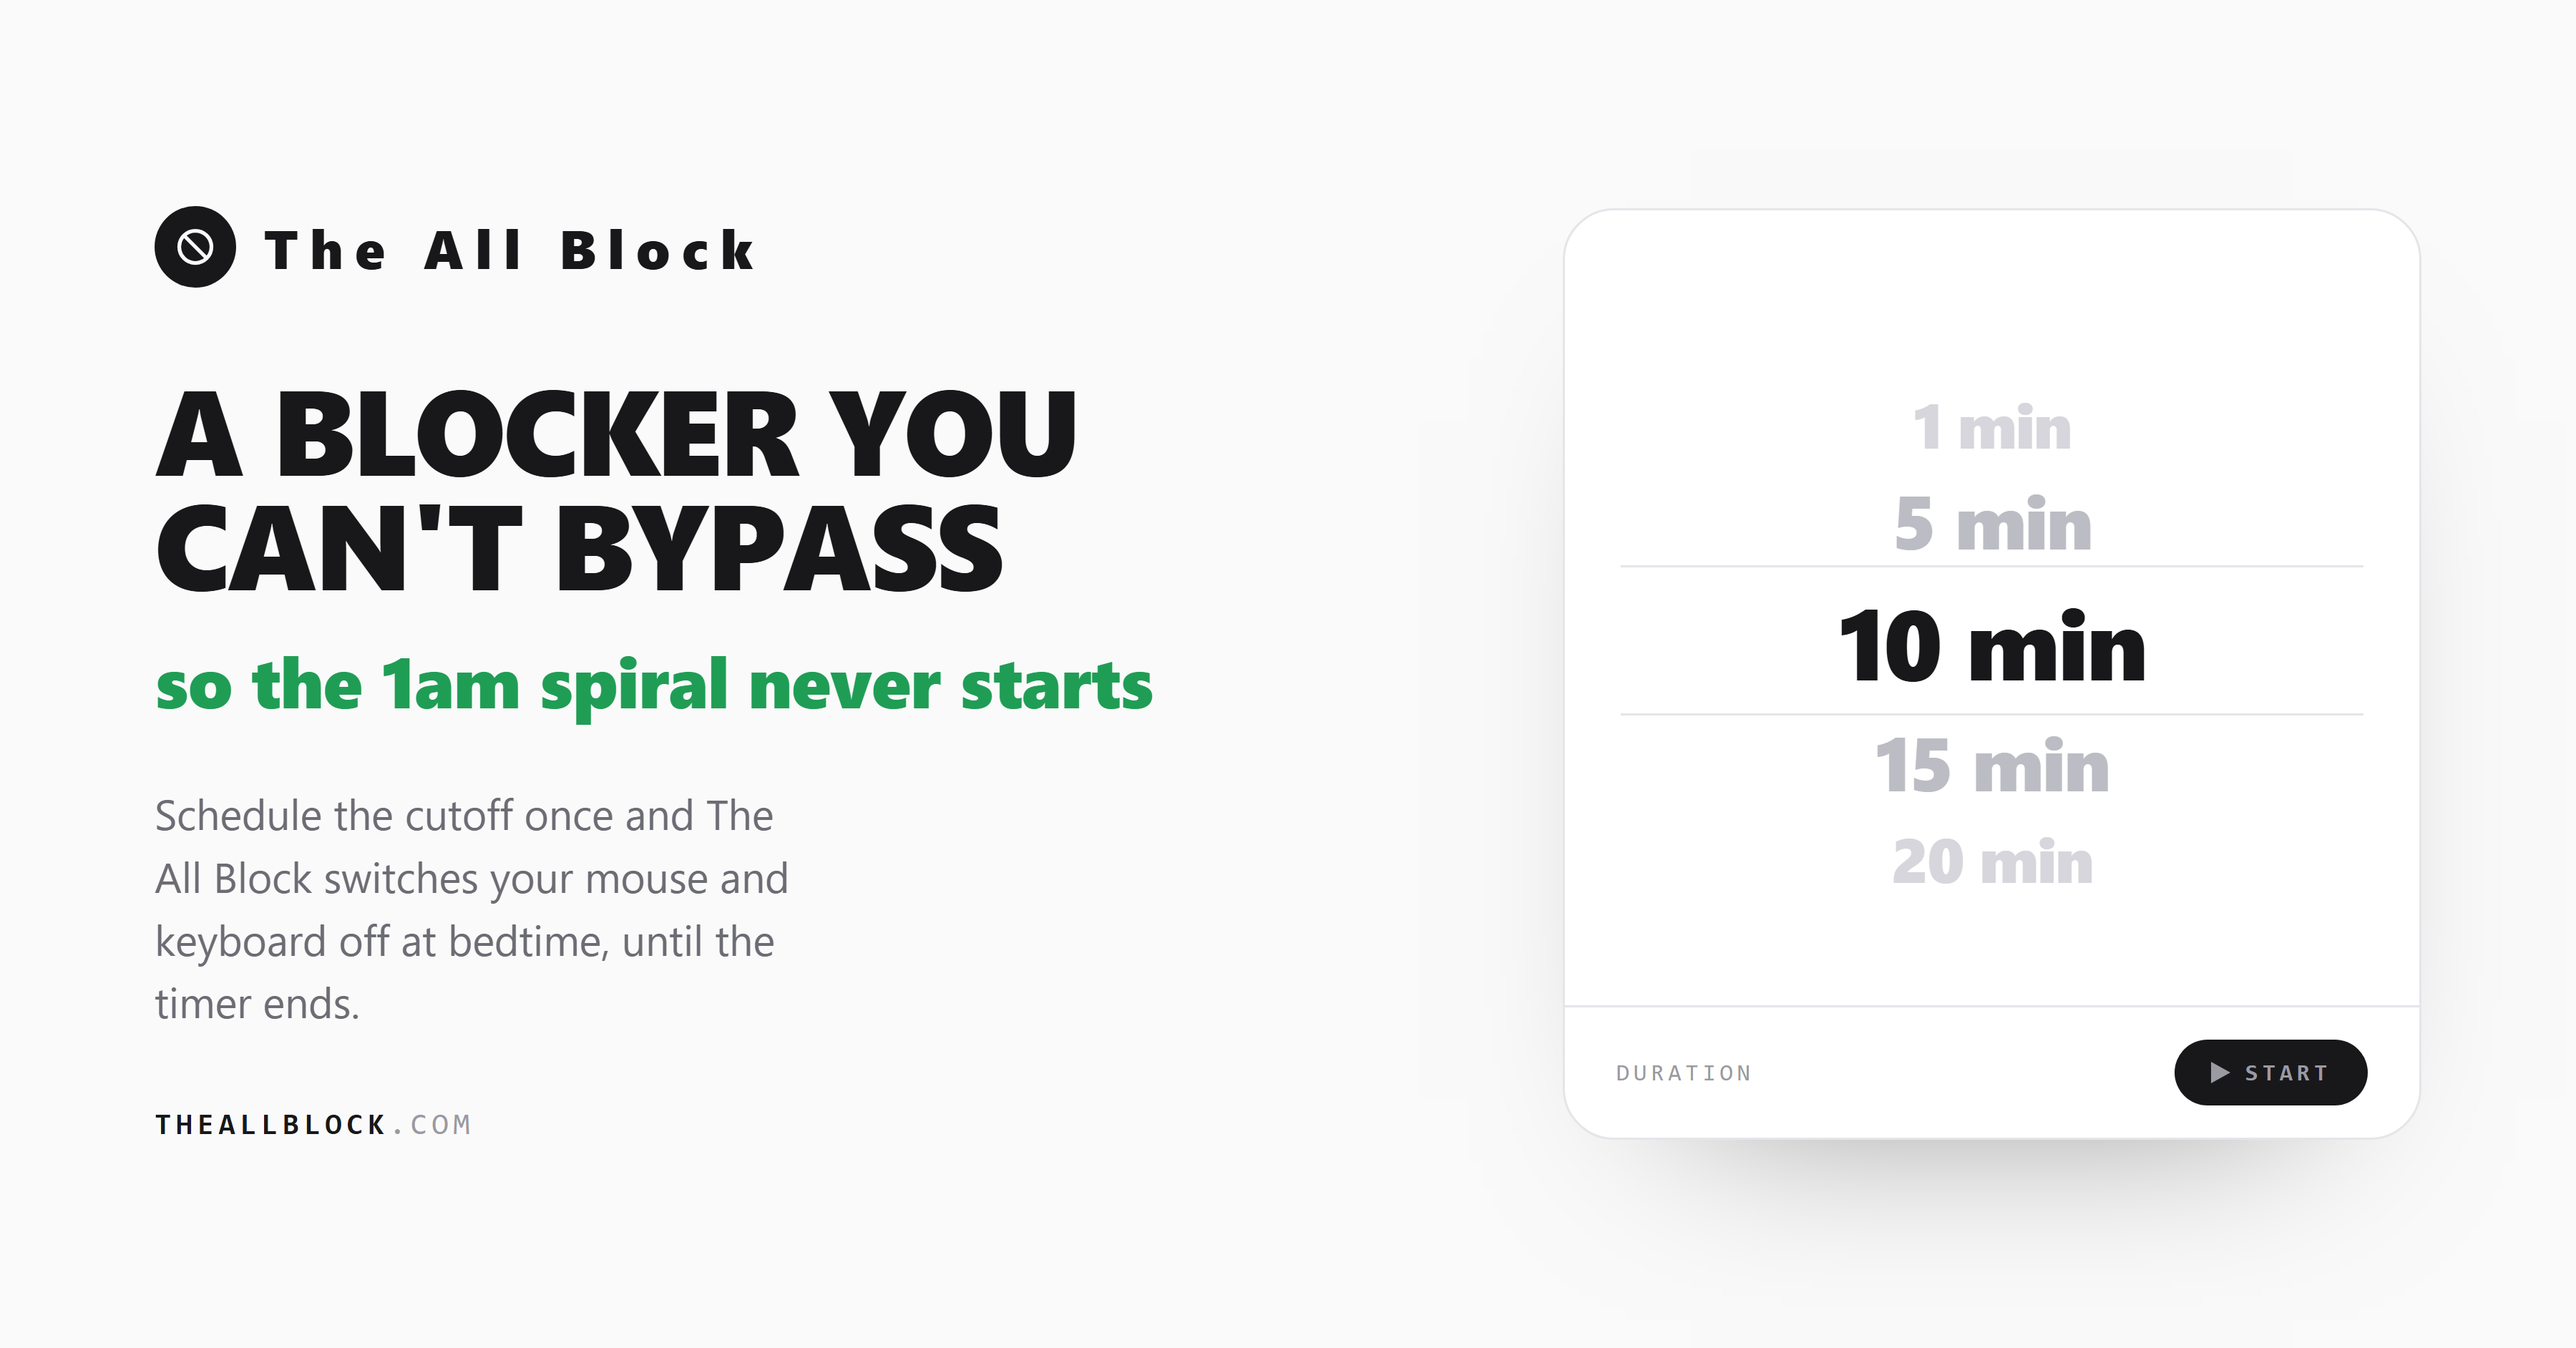
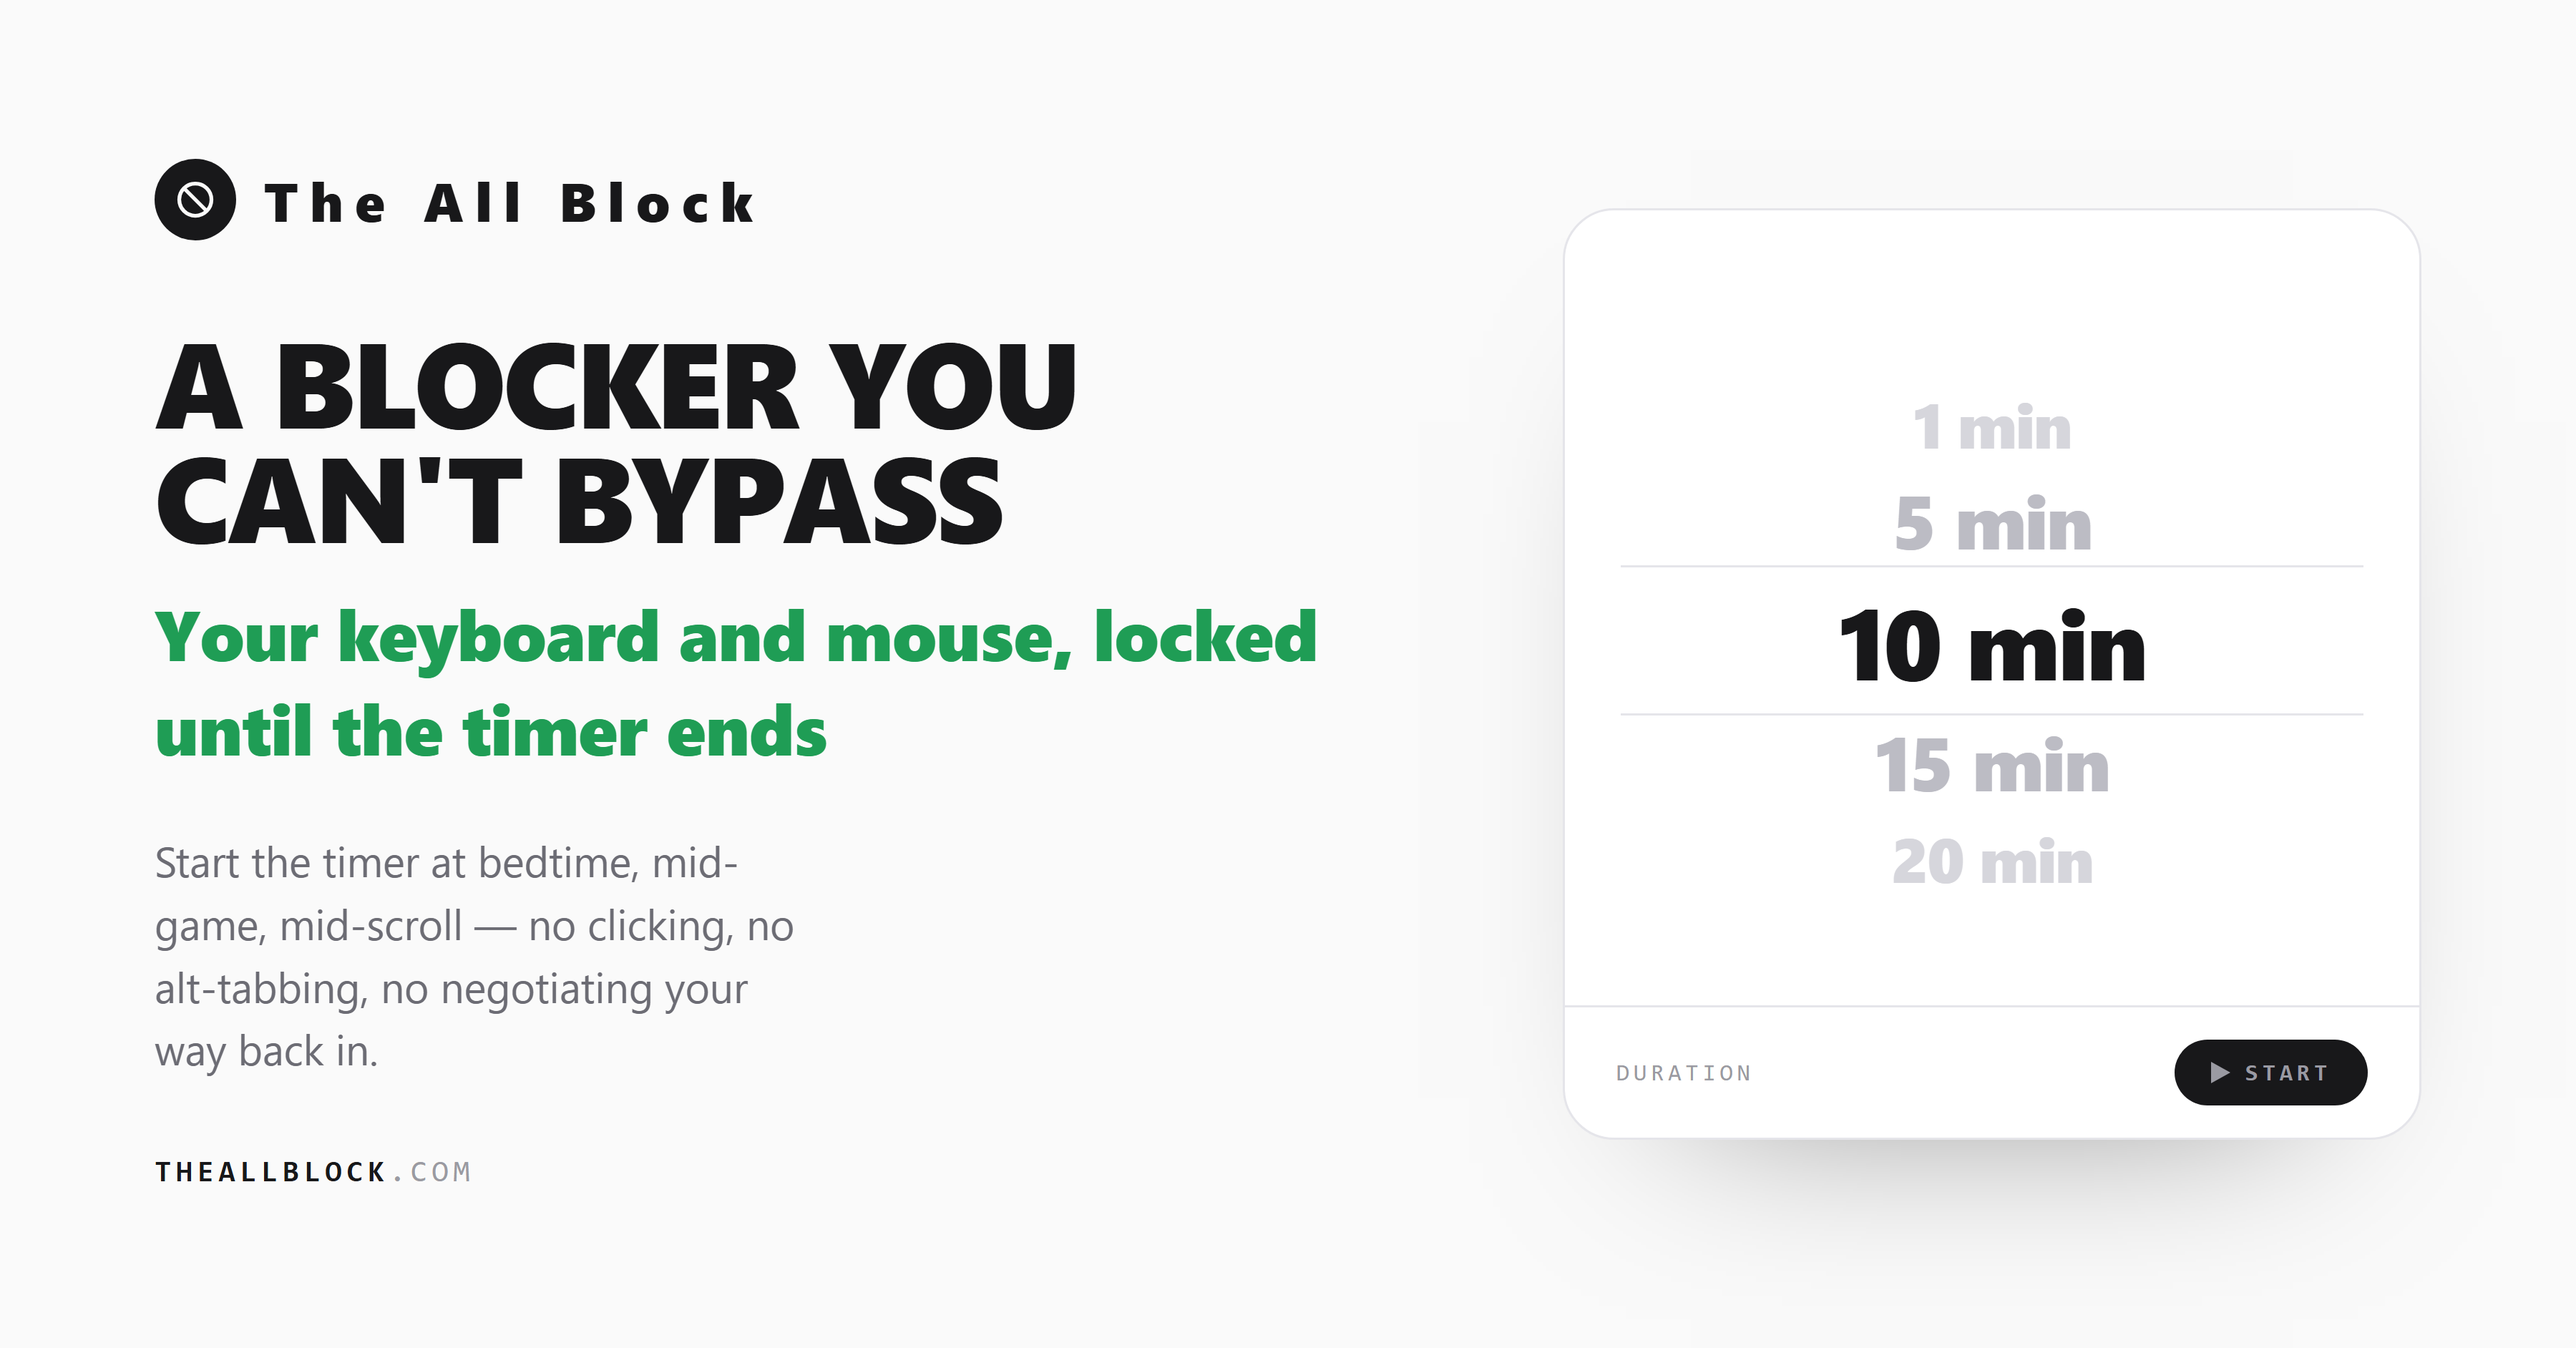
Sync og-card copy to the current hero, re-render all card assets
og-card.html still had the old "so the 1am spiral never starts" hero
line from before the site's copy was rewritten. Updated it to match
the live hero exactly, re-rendered og-cover.png and the press kit at
their proper resolutions, and bumped the OG image cache-buster again
since it changed.

Changed region(s): [[0.0622, 0.2463, 0.5289, 0.8004], [0.0622, 0.1231, 0.3111, 0.2155], [0.0622, 0.8312, 0.1867, 0.8928]]

diff --git a/docs/index.html b/docs/index.html
@@ -31,14 +31,14 @@ try{
 <meta property="og:type" content="website">
 <meta property="og:site_name" content="The All Block">
 <!-- absolute, because WhatsApp/Slack/Discord don't resolve relative og:image -->
-<meta property="og:image" content="https://theallblock.com/img/og-cover.png?v=7.7.2">
+<meta property="og:image" content="https://theallblock.com/img/og-cover.png?v=7.7.2-2">
 <meta property="og:image:width" content="1200">
 <meta property="og:image:height" content="628">
 <meta property="og:image:alt" content="The All Block: the headline A blocker you can't bypass, so the 1am spiral never starts, beside a duration wheel set to 10 minutes.">
 <meta name="twitter:card" content="summary_large_image">
 <meta name="twitter:title" content="The All Block">
 <meta name="twitter:description" content="A blocker you can't bypass: The All Block switches your mouse and keyboard off system-wide, so the 1am spiral, the doomscroll and the one-more-game session never get the chance to start.">
-<meta name="twitter:image" content="https://theallblock.com/img/og-cover.png?v=7.7.2">
+<meta name="twitter:image" content="https://theallblock.com/img/og-cover.png?v=7.7.2-2">
 <link rel="preconnect" href="https://fonts.googleapis.com">
 <link rel="preconnect" href="https://fonts.gstatic.com" crossorigin>
 <!-- the fonts were the one render-blocking request on the page: a round trip

diff --git a/docs/og-card.html b/docs/og-card.html
@@ -80,9 +80,9 @@ h1{font-family:var(--display);font-weight:900;font-size:56px;line-height:.95;
     </div>
 
     <h1>A blocker you<br>can't bypass</h1>
-    <p class="sub">so the 1am spiral never starts</p>
-    <p class="line">Schedule the cutoff once and The All Block switches your
-       mouse and keyboard off at bedtime, until the timer ends.</p>
+    <p class="sub">Your keyboard and mouse, locked until the timer ends</p>
+    <p class="line">Start the timer at bedtime, mid-game, mid-scroll — no
+       clicking, no alt-tabbing, no negotiating your way back in.</p>
     <p class="url"><b>theallblock</b>.com</p>
   </div>
 
